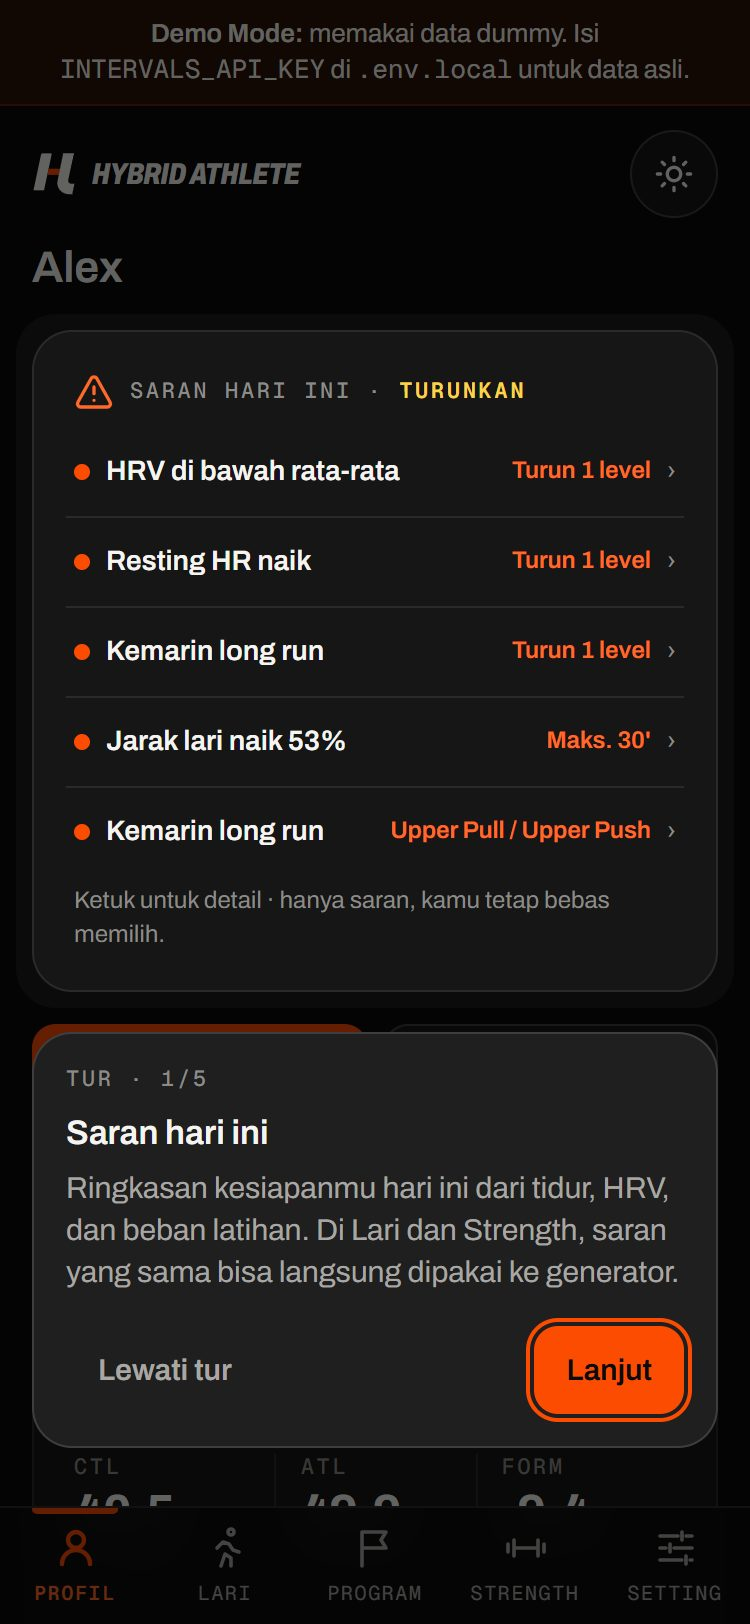
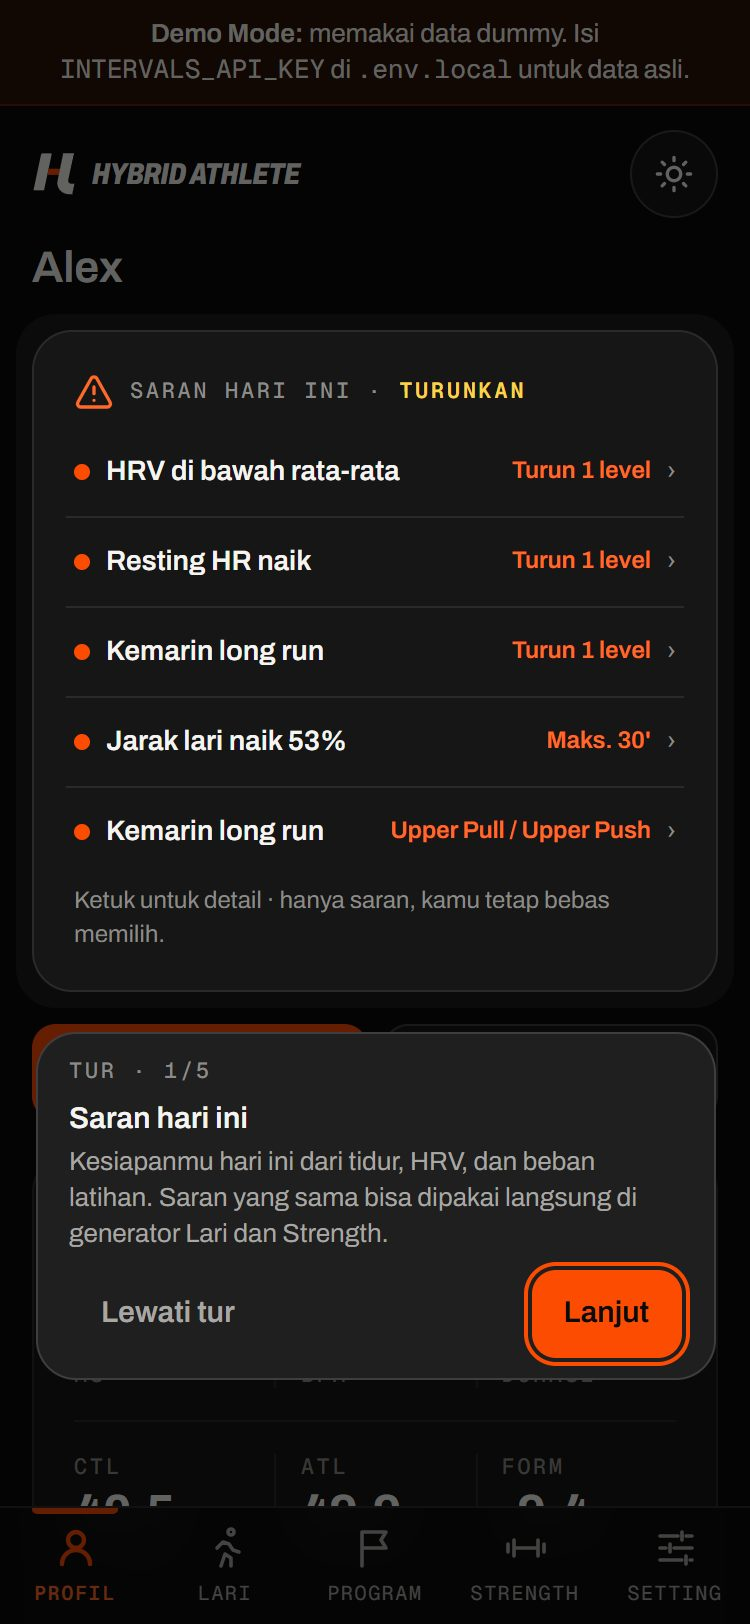
style(tour): more compact popover so it covers less data

Changed region(s): [[0.092, 0.6466, 0.9507, 0.8929], [0.0307, 0.6466, 0.0613, 0.8621], [0.9507, 0.6466, 0.9813, 0.8313]]

diff --git a/components/onboarding/Tour.tsx b/components/onboarding/Tour.tsx
@@ -99,7 +99,7 @@ function TourLayer({ index, closing, onBack, onNext, onSkip }: { index: number; 
 
   // Ukuran layar & posisi elemen, diperbarui saat scroll, resize, atau elemen berubah ukuran.
   const [layout, setLayout] = useState<{ rect: Rect | null; vw: number; vh: number; insetTop: number; insetBottom: number } | null>(null);
-  const [popSize, setPopSize] = useState({ width: 360, height: 220 });
+  const [popSize, setPopSize] = useState({ width: 340, height: 160 });
   useLayoutEffect(() => {
     if (!found) return;
     const insets = readSafeArea();
@@ -114,7 +114,7 @@ function TourLayer({ index, closing, onBack, onNext, onSkip }: { index: number; 
           vh: window.innerHeight,
           ...insets,
         });
-        if (popRef.current) setPopSize({ width: 360, height: popRef.current.offsetHeight });
+        if (popRef.current) setPopSize({ width: 340, height: popRef.current.offsetHeight });
       });
     };
     measure();
@@ -189,19 +189,19 @@ function TourLayer({ index, closing, onBack, onNext, onSkip }: { index: number; 
         aria-modal="true"
         aria-labelledby="tour-title"
         aria-describedby="tour-body"
-        className={`absolute rounded-card border border-line-strong bg-surface-raised p-4 text-ink shadow-card ${pos ? "tour-pop" : "invisible"}`}
+        className={`absolute rounded-card border border-line-strong bg-surface-raised px-4 pt-3 pb-2.5 text-ink shadow-card ${pos ? "tour-pop" : "invisible"}`}
         style={{ top: pos?.top ?? 0, left: pos?.left ?? 16, width: pos?.width ?? popSize.width, transformOrigin: origin }}
       >
         <p className="t-label">
           Tur · {index + 1}/{TOUR_STEPS.length}
         </p>
-        <h2 id="tour-title" className="mt-2 text-[17px] leading-snug font-semibold">
+        <h2 id="tour-title" className="mt-1.5 text-[15px] leading-snug font-semibold">
           {step.title}
         </h2>
-        <p id="tour-body" className="mt-1.5 text-body text-muted">
+        <p id="tour-body" className="mt-1 text-[13px] leading-snug text-muted">
           {step.body}
         </p>
-        <div className="mt-4 flex items-center gap-2">
+        <div className="mt-2 flex items-center gap-2">
           <button type="button" onClick={onSkip} className={`${BUTTON.base} ${BUTTON.ghost} mr-auto px-3 text-body text-muted`}>
             Lewati tur
           </button>
